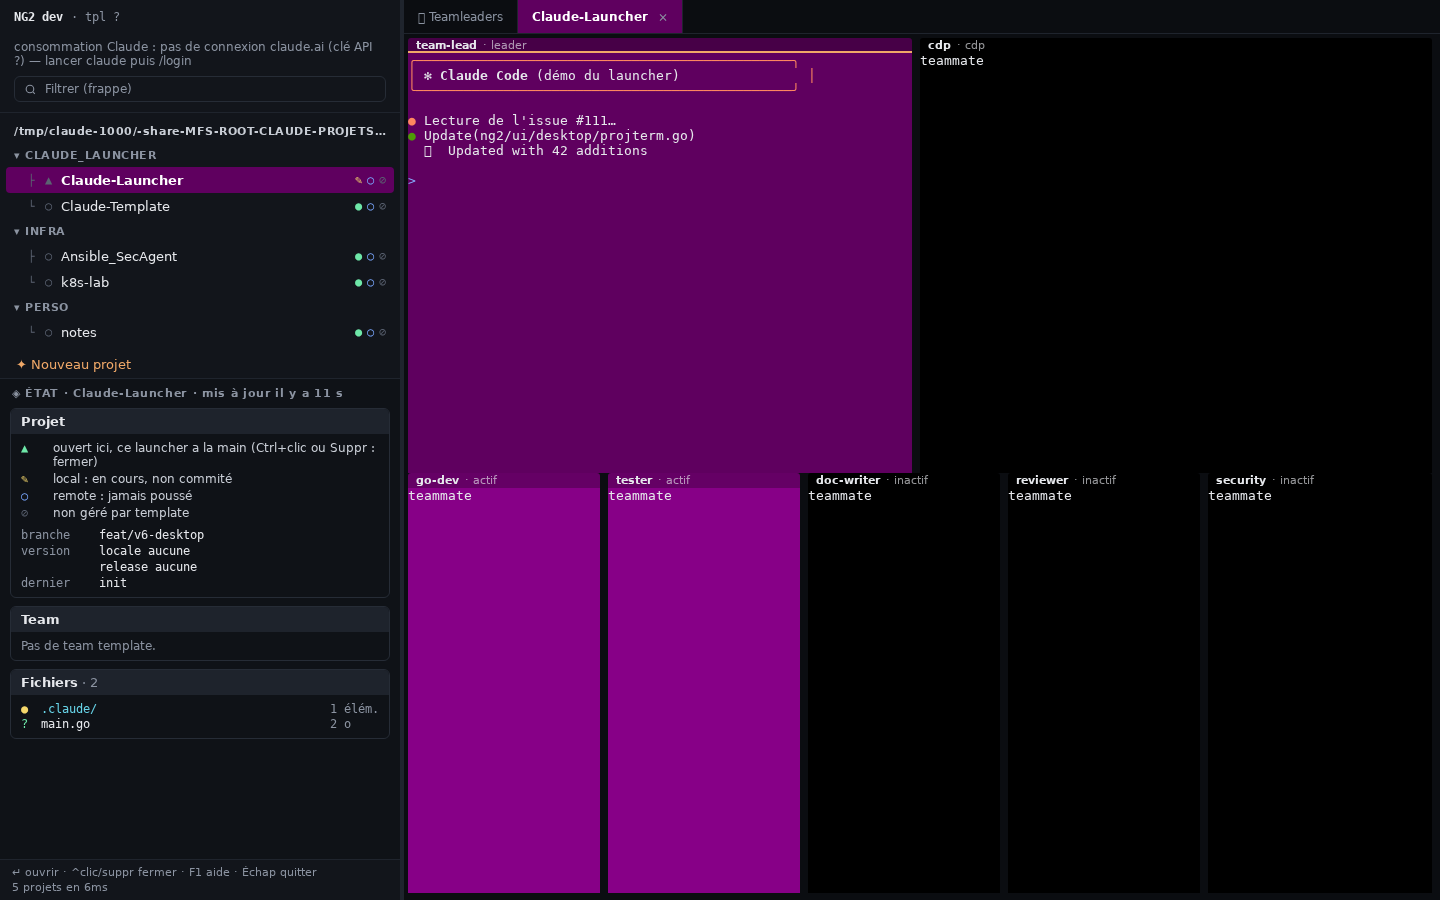
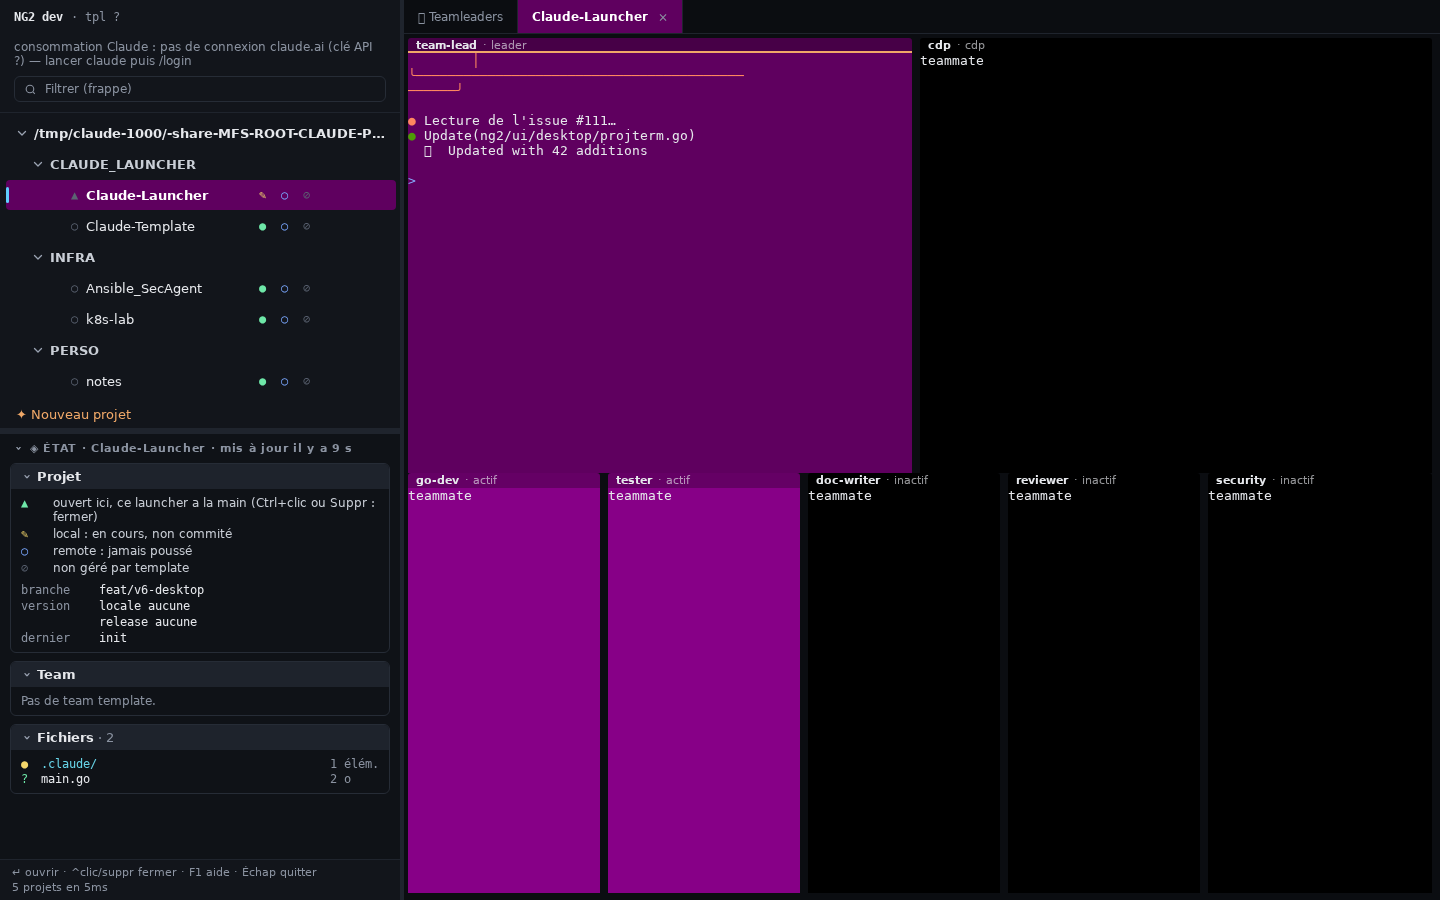
docs(ng2): interface native — apparence, repli, zones, lecture sur 9P (hub_cache, desktop-perf.log), redimensionnement ; capture (#122 #123 #124 #125 #126)

diff --git a/ng2/ui/desktop/frontend/app.js b/ng2/ui/desktop/frontend/app.js
@@ -123,6 +123,7 @@ function renderHead() {
   $('filter').className = S.filter ? '' : 'dim';
   $('filterbox').classList.toggle('on', !!S.filter);
   $('status').textContent = s.status || '';
+  $('status').title = s.perf ? 'chargement : ' + s.perf : '';
   $('msg').textContent = quitText() || s.msg || '';
 }
 

diff --git a/ng2/README.md b/ng2/README.md
@@ -859,12 +859,42 @@ graphique : en ligne de commande, sa sortie va dans la console de l'invite ; les
 | `F1` / `F2` / `F5` | aide et légende / exécution du projet / mises à jour, conso, arbre maintenant |
 | `Ctrl+R` / `Ctrl+U` / `Ctrl+D` | rescanner / masquer les annonces / diagnostic des backends |
 | `Ctrl+←` `Ctrl+→`, bordure | largeur du navigateur (mémorisée) |
+| `←` `→`, clic sur le chevron ou la ligne d'une racine / catégorie | replier / déplier (mémorisé) ; `←` sur un projet : sa catégorie |
+| séparateur arbre / cartes ; clic sur le bandeau d'une carte ou sur « ◈ ÉTAT » | hauteur de l'arbre ; replier une carte ou toute la zone (mémorisé) |
 | `Tab` (navigateur) ; `Alt+←` (terminal) | aller aux terminaux ; revenir au navigateur |
 | `Ctrl+Tab`, `Ctrl+Maj+Tab` | onglet suivant / précédent |
 | clic sur un pane ; double-clic sur son en-tête | focus clavier ; plein écran (aller-retour) |
 | `Ctrl+B z` / `Ctrl+B R` / `Ctrl+B Ctrl+B` | plein écran / remettre en ordre la team / envoyer `Ctrl+B` à l'agent |
 | `Ctrl+Maj+W`, `×` de l'onglet | détacher l'onglet (la session continue) |
 | `Échap` | quitter : `l` l'interface seule (projets gardés), `t` puis `o` tout fermer |
+
+**Apparence et disposition** (#122, #123, #124) : l'arbre reprend le rendu d'un arbre natif de
+Windows 11 (Explorateur) : hauteur de ligne et indentation, chevrons, survol et sélection Fluent
+(barre d'accent), Segoe UI Variable, badges alignés en colonnes (local, remote, template,
+conteneur, milestone, PR, reprise) avec les icônes et couleurs de la coque ; thème clair si le
+système est en clair. Racines et catégories se replient ; largeur du navigateur, hauteur de
+l'arbre, cartes repliées et zone des cartes masquée sont gardées dans `desktop-ui.json` du cache
+du launcher.
+
+**Projets lus par `\\wsl.localhost` (9P)** (#125) : chaque appel de fichier traverse WSL, et un
+`git status` par projet coûte cher. L'arbre et les badges du lancement précédent
+(`desktop-tree.json`, `desktop-git.json` et le cache d'état) s'affichent tout de suite et sont
+complétés en tâche de fond ; git ne tourne que pour les projets sans état en cache (ouverts et
+sélectionné d'abord, 4 à la fois sur un disque réseau). Le cache d'état du hub Linux peut être lu
+sans y écrire, s'il est plus frais : déclarer son dossier vu du poste,
+
+```yaml
+hubs:
+  MON-PC:
+    hub_cache: '\\wsl.localhost\Ubuntu\home\moi\.cache\claude-launcher-ng2'
+```
+
+Les durées de chaque étape (parcours, caches, git, conso, milestones, conteneurs) sont résumées au
+survol du pied et ajoutées à `desktop-perf.log` du cache (à joindre à un signalement de lenteur).
+
+**Redimensionnement** (#126) : la taille de la zone des terminaux est transmise au tmux du projet
+(`refresh-client -C L,H`) ; après la dernière taille d'une rafale (fenêtre glissée, maximiser /
+restaurer), chaque pane est recapturé et la team est remise en page à la nouvelle taille.
 
 **Différences avec la coque tmux**
 
